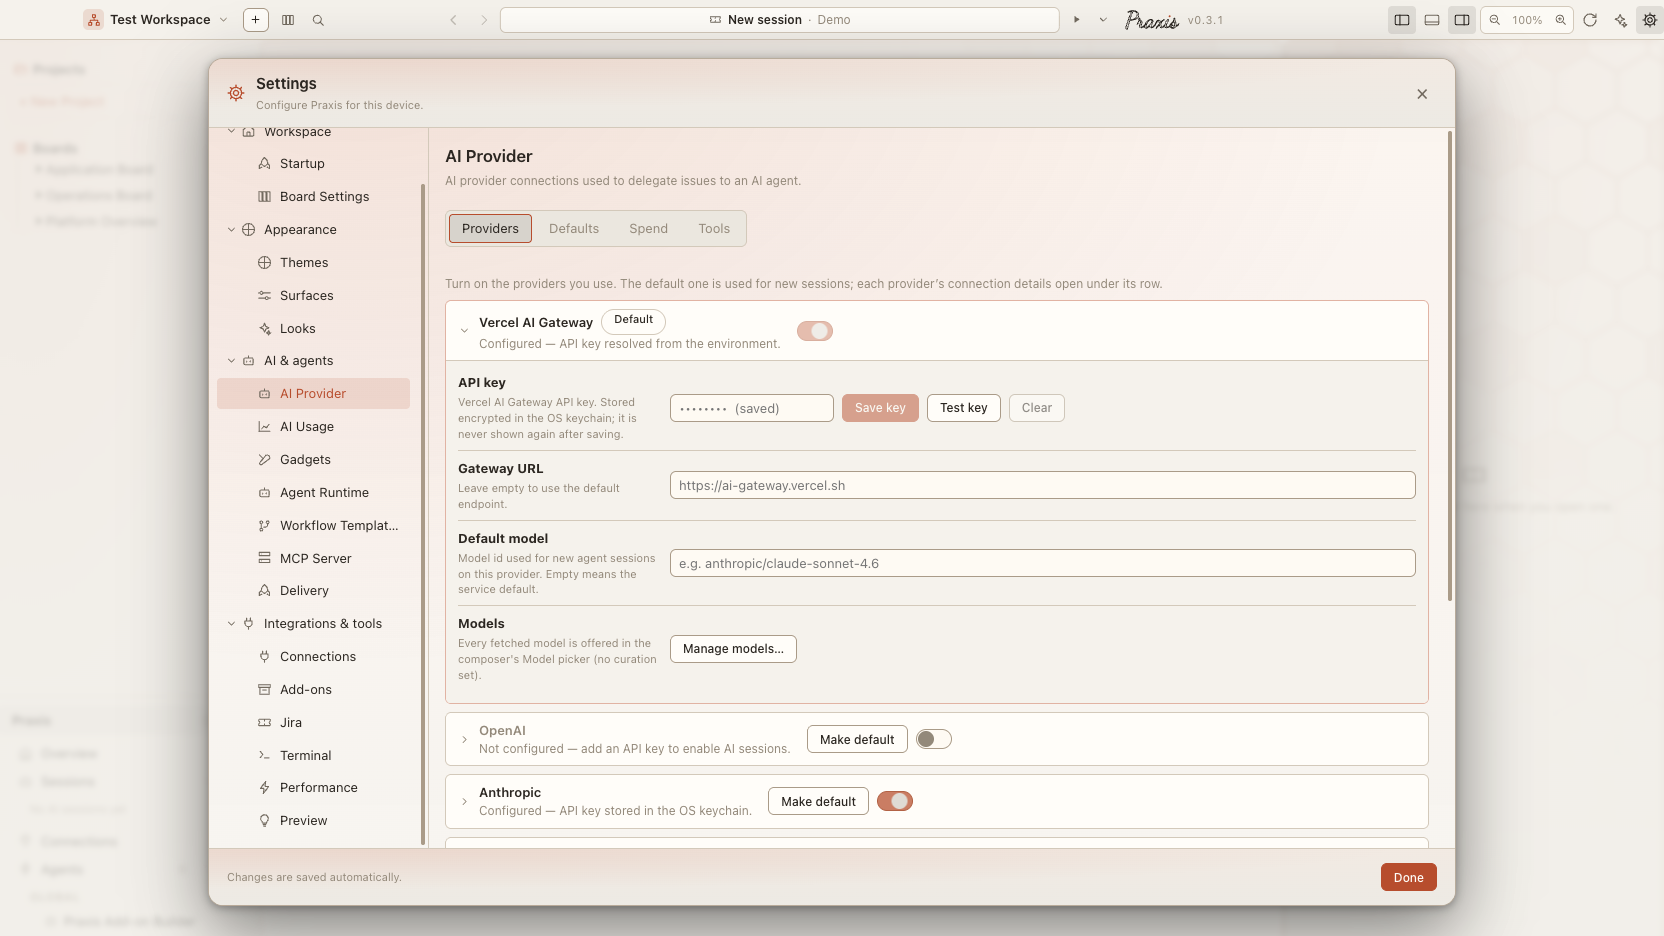
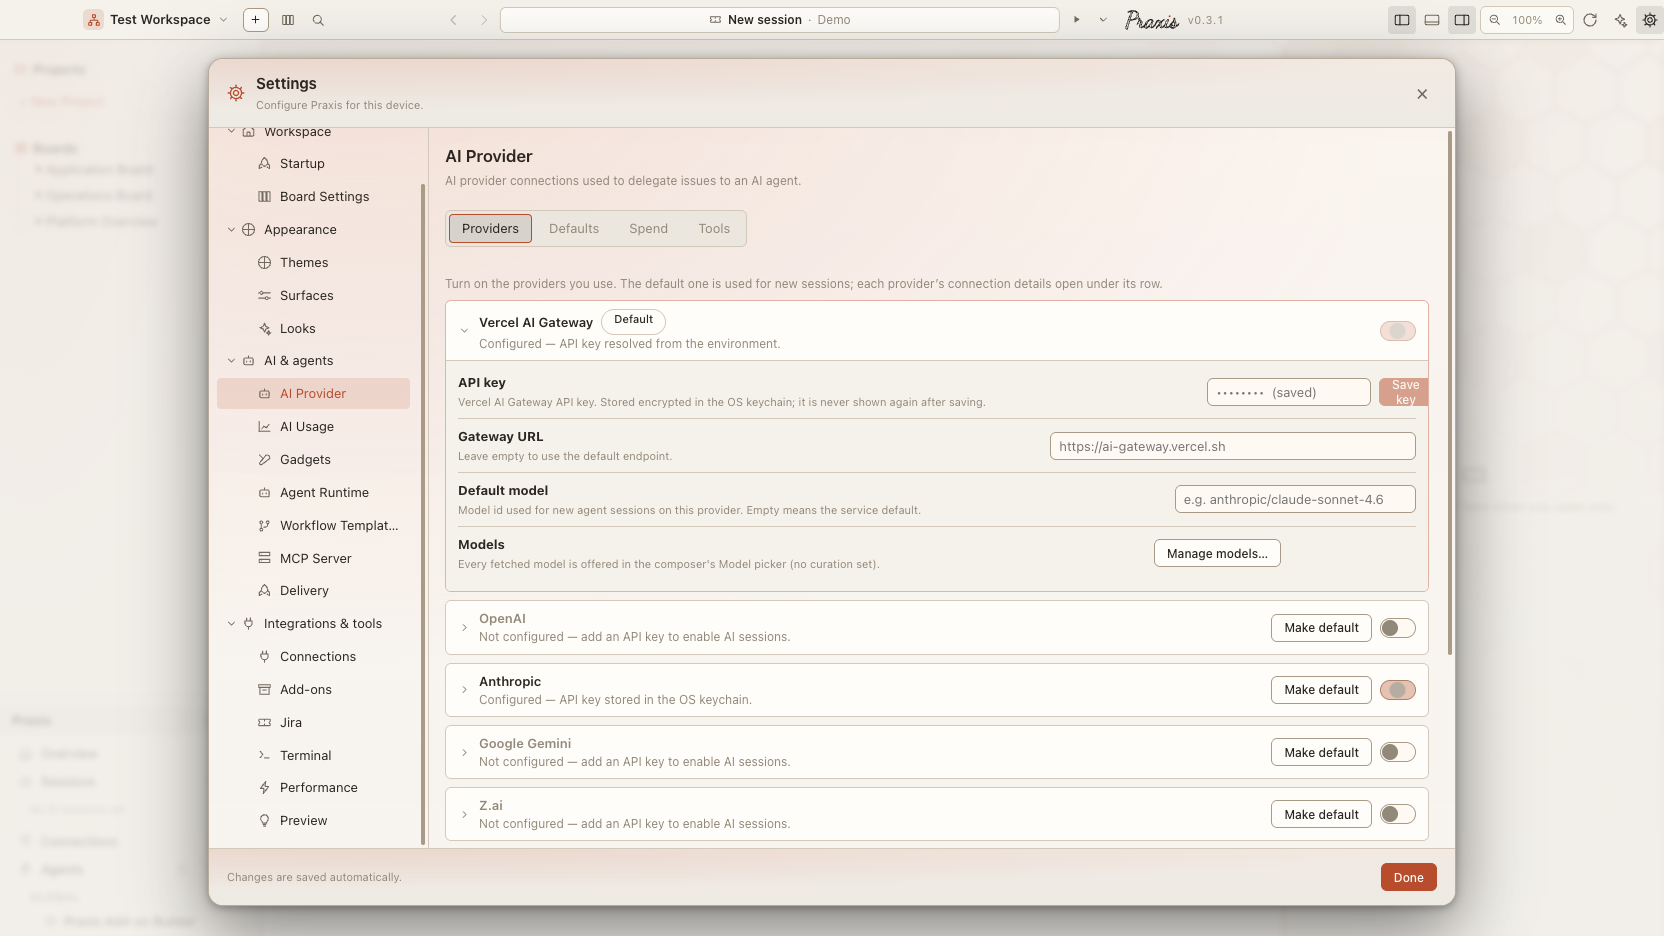
Polish settings provider and marketplace rows

diff --git a/apps/praxis-desktop/renderer/src/settings/SettingsPage.tsx b/apps/praxis-desktop/renderer/src/settings/SettingsPage.tsx
@@ -1192,7 +1192,7 @@ function FieldRow({
         <strong>{label}</strong>
         {description && <div className="settings-field-help">{description}</div>}
       </div>
-      <div className="settings-field-control">{children}</div>
+      <div className="settings-field-control settings-field-control--field">{children}</div>
     </div>
   );
 }
@@ -1624,6 +1624,7 @@ function AiSection({
   /** Set when a switch was pressed on a provider that is not set up yet: focus its first setup field once it opens. */
   const [setupFocus, setSetupFocus] = useState<AiProvider>();
   const [selectedProviderId, setSelectedProviderId] = useState<AiProvider>(settings.ai.activeProvider);
+  const [expandedProviderId, setExpandedProviderId] = useState<AiProvider | undefined>(settings.ai.activeProvider);
   const [keyDraft, setKeyDraft] = useState('');
   const [busy, setBusy] = useState(false);
   const [resettingKeys, setResettingKeys] = useState(false);
@@ -1684,12 +1685,16 @@ function AiSection({
 
   useEffect(() => {
     if (!setupFocus || setupFocus !== selectedProviderId || tab !== 'providers') return;
+    if (expandedProviderId !== setupFocus) {
+      setExpandedProviderId(setupFocus);
+      return;
+    }
     const field = document.querySelector<HTMLElement>(`[data-testid="ai-provider-body-${setupFocus}"] input`);
     if (field) {
       field.focus();
       setSetupFocus(undefined);
     }
-  }, [setupFocus, selectedProviderId, tab, statuses]);
+  }, [setupFocus, selectedProviderId, tab, statuses, expandedProviderId]);
 
   const selectedMeta = AI_PROVIDERS.find(p => p.id === selectedProviderId)!;
   const selectedStatus = statuses.find(s => s.provider === selectedProviderId);
@@ -1866,7 +1871,7 @@ function AiSection({
               {AI_PROVIDERS.map(meta => {
                 const rowStatus = statuses.find(s => s.provider === meta.id);
                 const isDefault = settings.ai.activeProvider === meta.id;
-                const isOpen = selectedProviderId === meta.id;
+                const isOpen = expandedProviderId === meta.id;
                 const configured = rowStatus?.configured === true;
                 const enabled = settings.ai.providers[meta.id]?.enabled !== false;
                 const on = configured && enabled;
@@ -1892,11 +1897,15 @@ function AiSection({
                       role="button"
                       tabIndex={0}
                       aria-expanded={isOpen}
-                      onClick={() => setSelectedProviderId(meta.id)}
+                      onClick={() => {
+                        setSelectedProviderId(meta.id);
+                        setExpandedProviderId(current => current === meta.id ? undefined : meta.id);
+                      }}
                       onKeyDown={event => {
                         if (event.key === 'Enter' || event.key === ' ') {
                           event.preventDefault();
                           setSelectedProviderId(meta.id);
+                          setExpandedProviderId(current => current === meta.id ? undefined : meta.id);
                         }
                       }}
                     >

diff --git a/apps/praxis-desktop/renderer/src/theme.css b/apps/praxis-desktop/renderer/src/theme.css
@@ -5312,6 +5312,7 @@ button.overview-stat:hover, .overview-list-row:hover, .overview-session-card:hov
 .ai-provider-head:hover { background: var(--bg-hover); }
 .ai-provider-chevron { display: inline-flex; flex-shrink: 0; color: var(--text-tertiary); }
 .ai-provider-text { min-width: 0; }
+.ai-provider-head .spacer { flex: 1 1 auto; min-width: var(--space-2); }
 .ai-provider-name { display: flex; align-items: center; gap: var(--space-2); font-weight: 600; }
 .ai-provider-row.is-off .ai-provider-name { color: var(--text-tertiary); }
 .ai-provider-meta { color: var(--text-tertiary); font-size: var(--text-sm); }
@@ -5395,7 +5396,8 @@ button.overview-stat:hover, .overview-list-row:hover, .overview-session-card:hov
 }
 
 .settings-field-label {
-  flex: 0 0 200px;
+  flex: 1 1 auto;
+  min-width: 0;
   font-size: var(--text-md);
   color: var(--text);
 }
@@ -5407,10 +5409,19 @@ button.overview-stat:hover, .overview-list-row:hover, .overview-session-card:hov
 }
 
 .settings-field-control {
-  flex: 1;
+  flex: 0 0 auto;
+  min-width: 0;
+  margin-left: auto;
   display: flex;
   align-items: center;
   gap: var(--space-2);
+}
+
+/* Form fields need the remaining row width; action-only rows keep their
+   controls at the far edge so marketplace installs, runtime actions, and
+   gadget rows share the same full-width rhythm. */
+.settings-field-control--field {
+  flex: 1 1 0;
 }
 
 /* A wrapping cluster of controls (inputs + buttons) inside a settings row —
